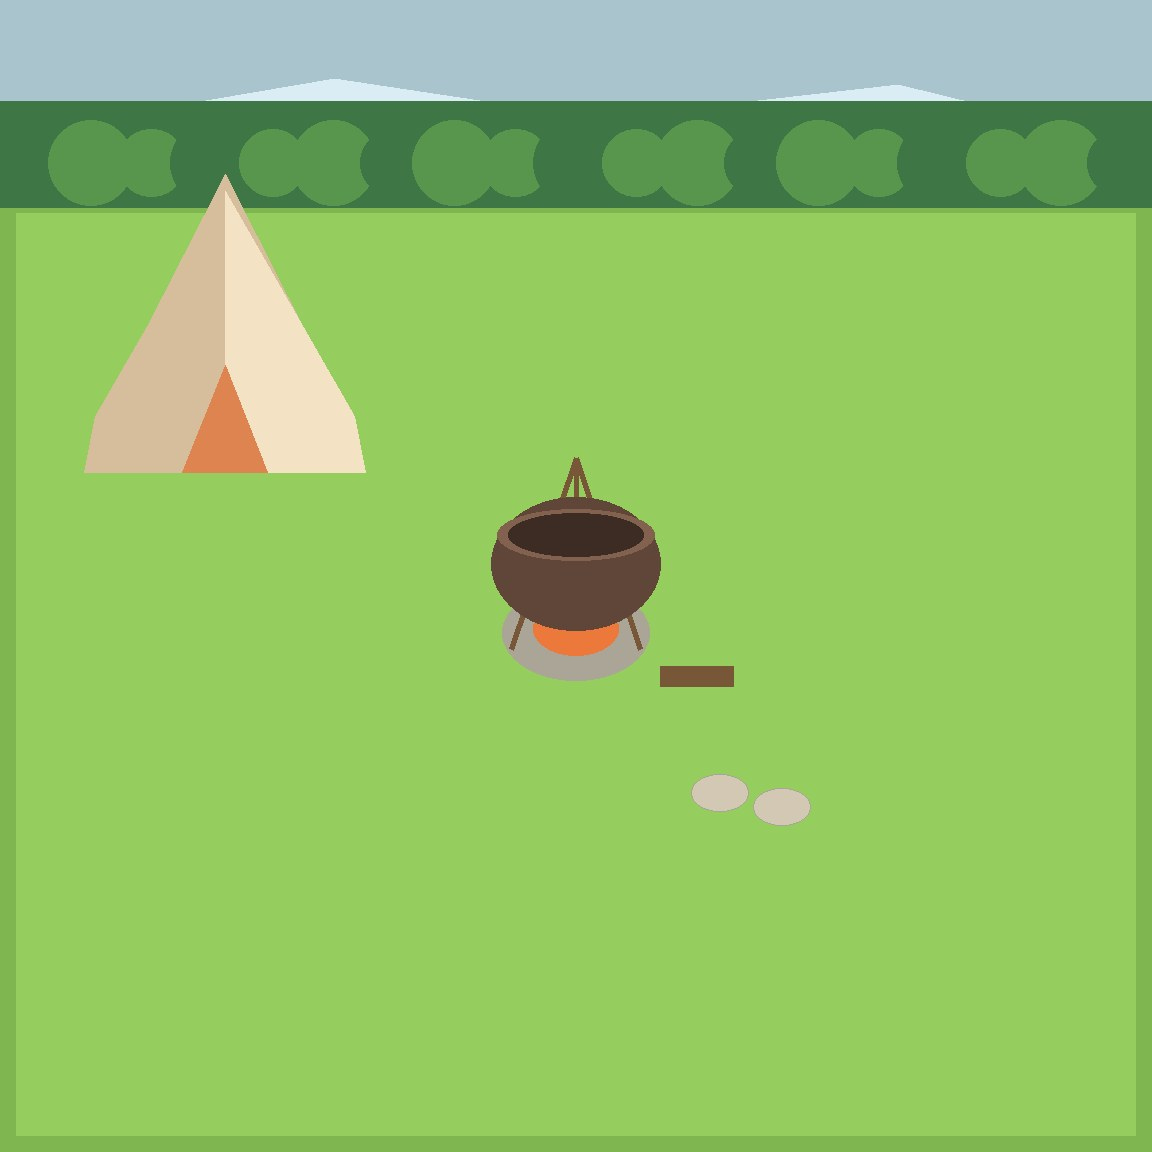
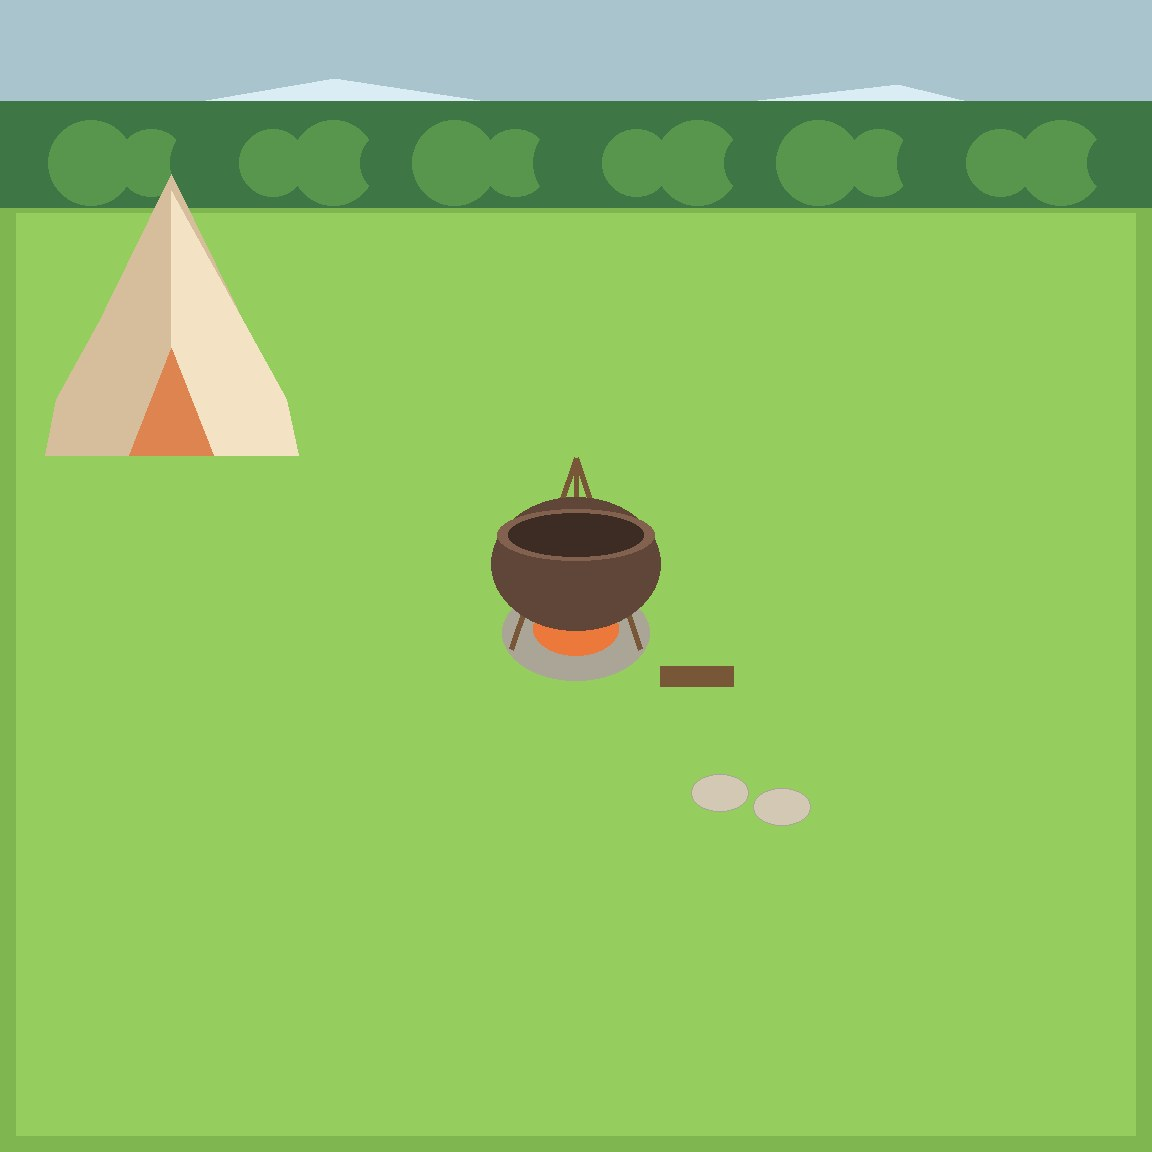
fix(camp): tent fully out of the default view
Claude-Session: https://claude.ai/code/session_01CX9A8LkVQKcNnTEsxo35Fv

Changed region(s): [[0.0312, 0.1562, 0.3125, 0.4375]]

diff --git a/cloudfunctions/api/lib/shared/camp.js b/cloudfunctions/api/lib/shared/camp.js
@@ -34,7 +34,7 @@ function ellipse(cx, cy, rx, ry, n = 16) {
 
 const FIRE = [2048, 2250]
 // 大帐篷的地面占位：整块草坪的最左上角（默认视角看不到，拖过去才看到），门朝篝火（右下）
-const TENT = [[300, 1000], [1300, 1000], [1300, 1680], [300, 1680]]
+const TENT = [[160, 1000], [1060, 1000], [1060, 1620], [160, 1620]]
 
 const SCENE = {
   width: W,
@@ -50,7 +50,7 @@ const SCENE = {
   fire: FIRE,
   // 从底图里抠出来单独一层的东西（画的像素 box；zy 是它落地的 y，宠物按 y 排前后就能被它挡住）。锅按今天打了几顿换图 pot-0～3
   cutouts: {
-    tent: { box: [200, 620, 1400, 1700], zy: 1680 },
+    tent: { box: [60, 640, 1180, 1640], zy: 1620 },
     pot: { box: [1548, 1600, 2548, 2540], zy: 2250 },
   },
   // 傍晚围着锅坐的 12 个点：开口朝后的马蹄形，没人坐到锅正后面被挡住
@@ -58,7 +58,7 @@ const SCENE = {
   // 两个食盆：篝火右下
   bowls: [[2560, 2820], [2780, 2870]],
   // 大帐篷门口的 3 个点：没窝的在这儿睡
-  tent: { spots: [[700, 1780], [920, 1800], [1140, 1780]] },
+  tent: { spots: [[560, 1720], [760, 1740], [960, 1720]] },
   // 篝火右边一片向阳的草地：橘团、龟龟晒太阳的点
   sun: [[2950, 2150], [3150, 2300], [2850, 2450]],
   // 树林边缘的入口：新住户从这里走进来，鹤鹤从这里飞走

diff --git a/miniprogram/utils/shared/camp.js b/miniprogram/utils/shared/camp.js
@@ -34,7 +34,7 @@ function ellipse(cx, cy, rx, ry, n = 16) {
 
 const FIRE = [2048, 2250]
 // 大帐篷的地面占位：整块草坪的最左上角（默认视角看不到，拖过去才看到），门朝篝火（右下）
-const TENT = [[300, 1000], [1300, 1000], [1300, 1680], [300, 1680]]
+const TENT = [[160, 1000], [1060, 1000], [1060, 1620], [160, 1620]]
 
 const SCENE = {
   width: W,
@@ -50,7 +50,7 @@ const SCENE = {
   fire: FIRE,
   // 从底图里抠出来单独一层的东西（画的像素 box；zy 是它落地的 y，宠物按 y 排前后就能被它挡住）。锅按今天打了几顿换图 pot-0～3
   cutouts: {
-    tent: { box: [200, 620, 1400, 1700], zy: 1680 },
+    tent: { box: [60, 640, 1180, 1640], zy: 1620 },
     pot: { box: [1548, 1600, 2548, 2540], zy: 2250 },
   },
   // 傍晚围着锅坐的 12 个点：开口朝后的马蹄形，没人坐到锅正后面被挡住
@@ -58,7 +58,7 @@ const SCENE = {
   // 两个食盆：篝火右下
   bowls: [[2560, 2820], [2780, 2870]],
   // 大帐篷门口的 3 个点：没窝的在这儿睡
-  tent: { spots: [[700, 1780], [920, 1800], [1140, 1780]] },
+  tent: { spots: [[560, 1720], [760, 1740], [960, 1720]] },
   // 篝火右边一片向阳的草地：橘团、龟龟晒太阳的点
   sun: [[2950, 2150], [3150, 2300], [2850, 2450]],
   // 树林边缘的入口：新住户从这里走进来，鹤鹤从这里飞走

diff --git a/test/camp.test.js b/test/camp.test.js
@@ -64,7 +64,7 @@ test('inGrass / hitsNogo：篝火中心、帐篷不是草地；margin 和 names 
   assert.equal(C.inGrass(640, 2500), true) // 草坪里没有树、没有小溪
   assert.equal(C.inGrass(3900, 3900), true) // 右下角也是草坪
   assert.equal(C.inGrass(2048, 300), false) // 树林
-  const near = { left: 1320, top: 1300, right: 1390, bottom: 1360 } // 帐篷右边 20px
+  const near = { left: 1080, top: 1300, right: 1150, bottom: 1360 } // 帐篷右边 20px
   assert.equal(C.hitsNogo(near, 0), false)
   assert.equal(C.hitsNogo(near, 40, ['tent']), true)
   assert.equal(C.hitsNogo(near, 40, ['fire']), false)
